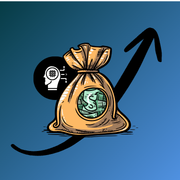
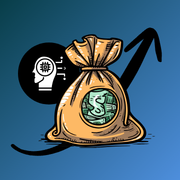
actualizacion de iconos multidispositivos & simplificacion pestaña seguimineto actual

Changed region(s): [[0.0833, 0.1667, 0.8611, 0.8333], [0.0, 0.0, 1.0, 0.0278]]

diff --git a/index.html b/index.html
@@ -902,7 +902,7 @@
     </div>
 
     <div class="tabs">
-        <button class="tab-btn active" data-tab="mesactual">📍 Mes Actual</button>
+        <button class="tab-btn active" data-tab="mesactual">📍 Seguimiento Financiero</button>
         <button class="tab-btn" data-tab="ingresos">➕ Ingresos</button>
         <button class="tab-btn" data-tab="gastos">➖ Gastos</button>
         <button class="tab-btn" data-tab="gastosfijos">📌 Gastos Fijos</button>
@@ -912,12 +912,12 @@
         <button class="tab-btn" data-tab="configuracion">⚙ Configuración</button>
     </div>
 
-    <!-- MES ACTUAL -->
+    <!-- SEGUIMIENTO FINANCIERO -->
     <div id="mesactual" class="tab-content active">
         <div class="form-section">
-            <h2>📍 Control del Mes Actual - <span id="currentMonthName"></span></h2>
+            <h2>📍 Balance General - <span id="currentMonthName"></span></h2>
             <p style="color: var(--color-text-secondary); margin-bottom: 1.5rem;">
-                Seguimiento en tiempo real de tus finanzas durante el mes en curso.
+                Seguimiento en tiempo real de tus finanzas.
             </p>
 
             <div class="summary-cards">              
@@ -995,26 +995,12 @@
                 <div id="budgetProgressBar"></div>
             </div>
 
-            <div class="stats-grid">
-                <div class="stat-item">
-                    <div class="stat-label">📊 Ingreso Total</div>
-                    <div class="stat-value positive" id="projectedTotalIncome">$0</div>
-                    <small style="color: var(--color-text-muted); font-size: 0.75rem;">Incluye balance anterior + ingresos confirmados</small>
-                </div>
-                <div class="stat-item">
-                    <div class="stat-label">💸 Gasto Diario Promedio</div>
-                    <div class="stat-value negative" id="avgDailyExpense">$0</div>
-                    <small style="color: var(--color-text-muted); font-size: 0.75rem;">Lo que gastas por día</small>
-                </div>
-                <div class="stat-item">
-                    <div class="stat-label">📉 Ritmo de Gasto</div>
-                    <div class="stat-value" id="spendingPace">0%</div>
-                    <small style="color: var(--color-text-muted); font-size: 0.75rem;">Del mes transcurrido</small>
-                </div>
+            <div class="stats-grid">  
+
                 <div class="stat-item">
                     <div class="stat-label">💵 Puede Gastar por Día</div>
                     <div class="stat-value" id="canSpendPerDay">$0</div>
-                    <small style="color: var(--color-text-muted); font-size: 0.75rem;">Cálculo basado en saldo confirmado y reserva obligatoria</small>
+                    <small style="color: var(--color-text-muted); font-size: 0.75rem;">disponible diario solo para gastos no prioritarios</small>
                 </div>
             </div>
 
@@ -2004,8 +1990,8 @@
             const available = AppState.getCurrentAvailable();
             
             const baseCalculation = Math.max(0, available);
-            const reservaObligatoria = baseCalculation * 0.60;
-            const gastoNoPrioritario = baseCalculation * 0.40;
+            const reservaObligatoria = baseCalculation * 0.70;
+            const gastoNoPrioritario = baseCalculation * 0.30;
 
             document.getElementById('nonp-base-calculation').textContent = formatCurrency(baseCalculation);
             document.getElementById('nonp-minimum-balance').textContent = formatCurrency(reservaObligatoria);
@@ -2078,15 +2064,7 @@
             const availableElement = document.getElementById('currentAvailable');
             availableElement.style.color = available >= 0 ? 'var(--color-success)' : 'var(--color-danger)';
 
-            document.getElementById('projectedTotalIncome').textContent = formatCurrency(totalIncome);
-
-            const avgDaily = daysPassed > 0 ? monthExpense / daysPassed : 0;
-            document.getElementById('avgDailyExpense').textContent = formatCurrency(avgDaily);
-
-            const percentBudgetUsed = totalIncome > 0 ? (totalExpense / totalIncome) * 100 : 0;
-            document.getElementById('spendingPace').textContent = percentBudgetUsed.toFixed(1) + '%';
-
-            const baseReal = Math.max(0, available - (available * 0.60));
+            const baseReal = Math.max(0, available - (available * 0.70));
             const canSpendDaily = daysRemaining > 0 ? baseReal / daysRemaining : 0;
             document.getElementById('canSpendPerDay').textContent = formatCurrency(Math.max(0, canSpendDaily));
 
